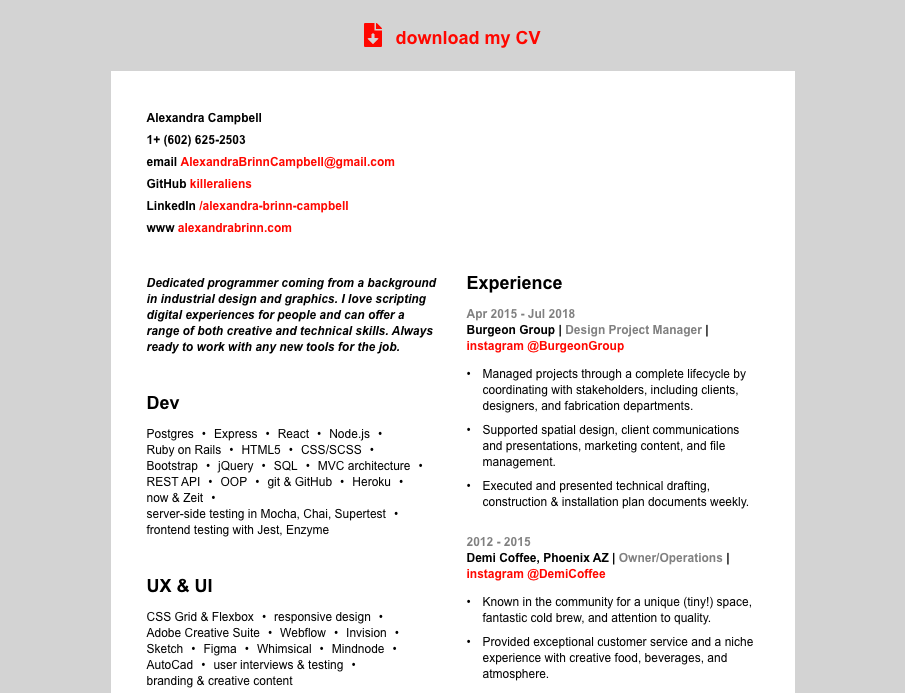
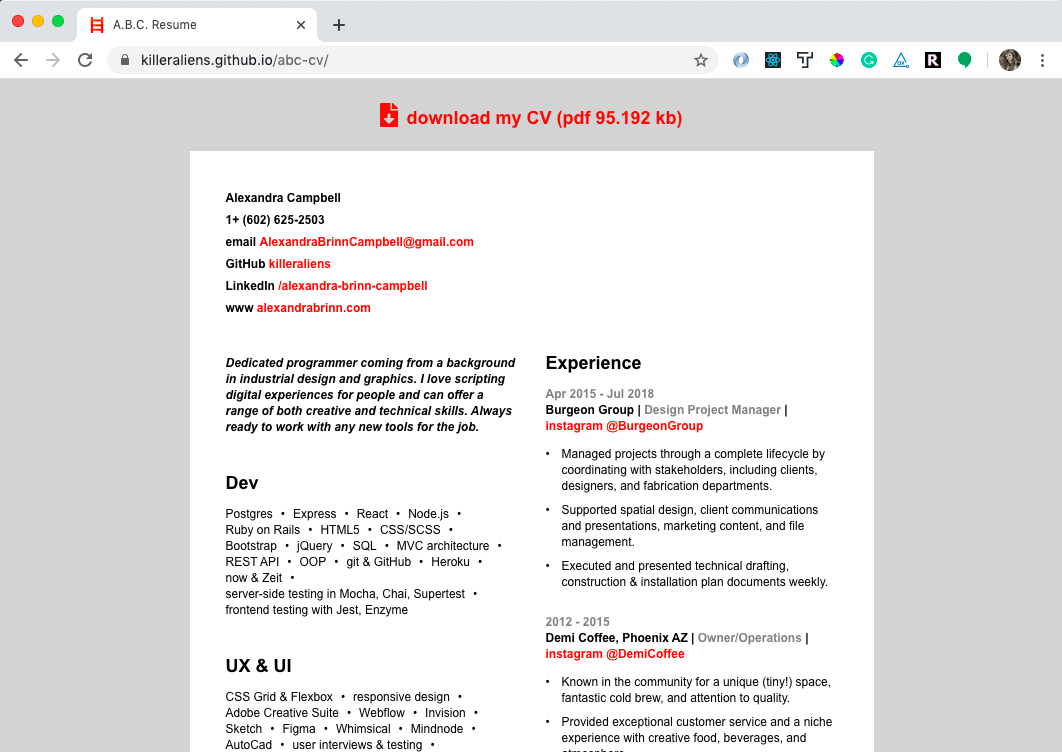
mobile dload link and new readme imgs

diff --git a/src/components/App.css b/src/components/App.css
@@ -31,13 +31,25 @@ html, body, #root, .App {
 .download-nav {
   text-align: center;
   margin: 24px;
-  font-size: 18px;
+  font-size: 12px;
 }
 
-
 .IconNav svg, .download-nav svg {
-  font-size: 24px;
+  font-size: 16px;
   margin-right: 8px;
+}
+
+@media (min-width: 499px) {
+  .download-nav {
+    text-align: center;
+    margin: 24px;
+    font-size: 18px;
+  }
+
+  .IconNav svg, .download-nav svg {
+    font-size: 24px;
+    margin-right: 8px;
+  }
 }
 
 .contact-ul {
